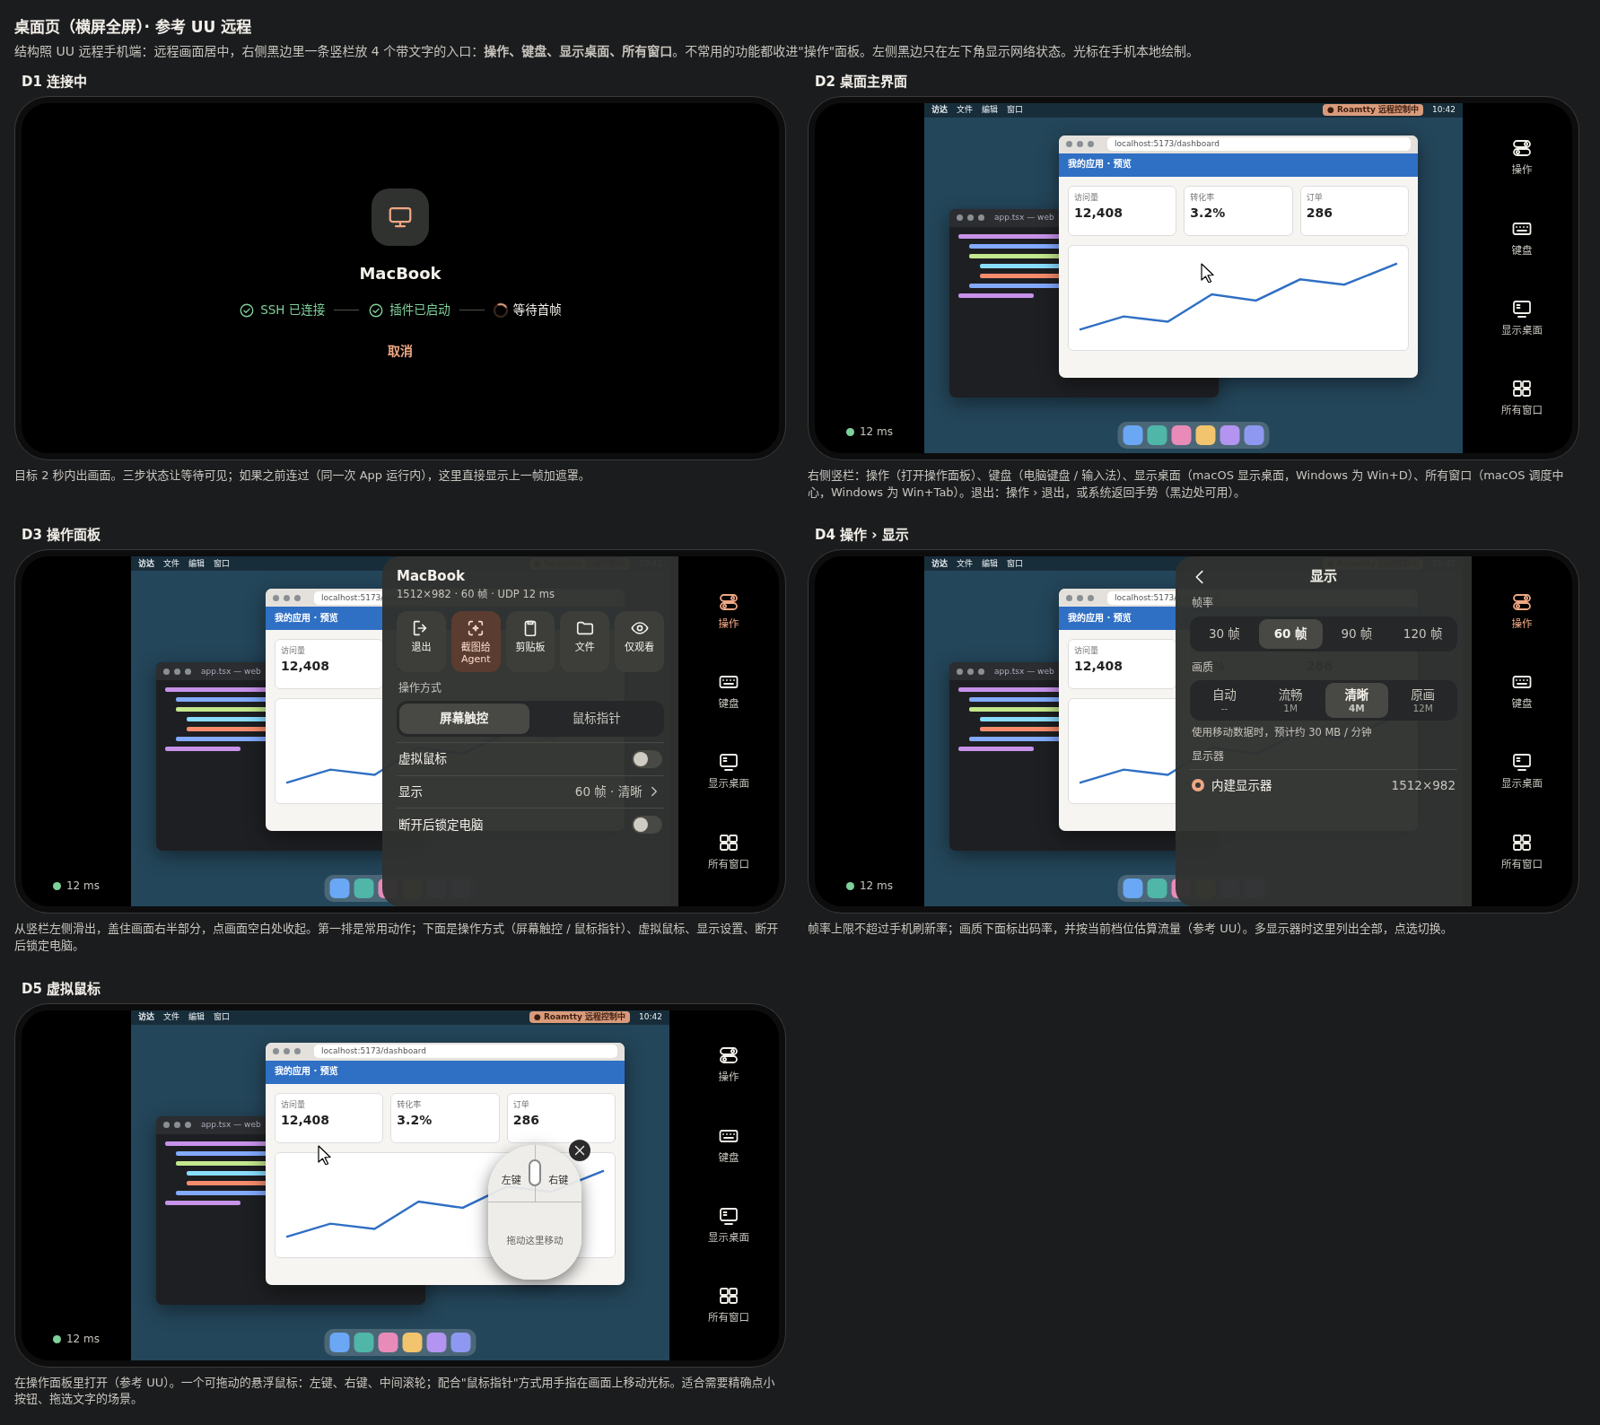
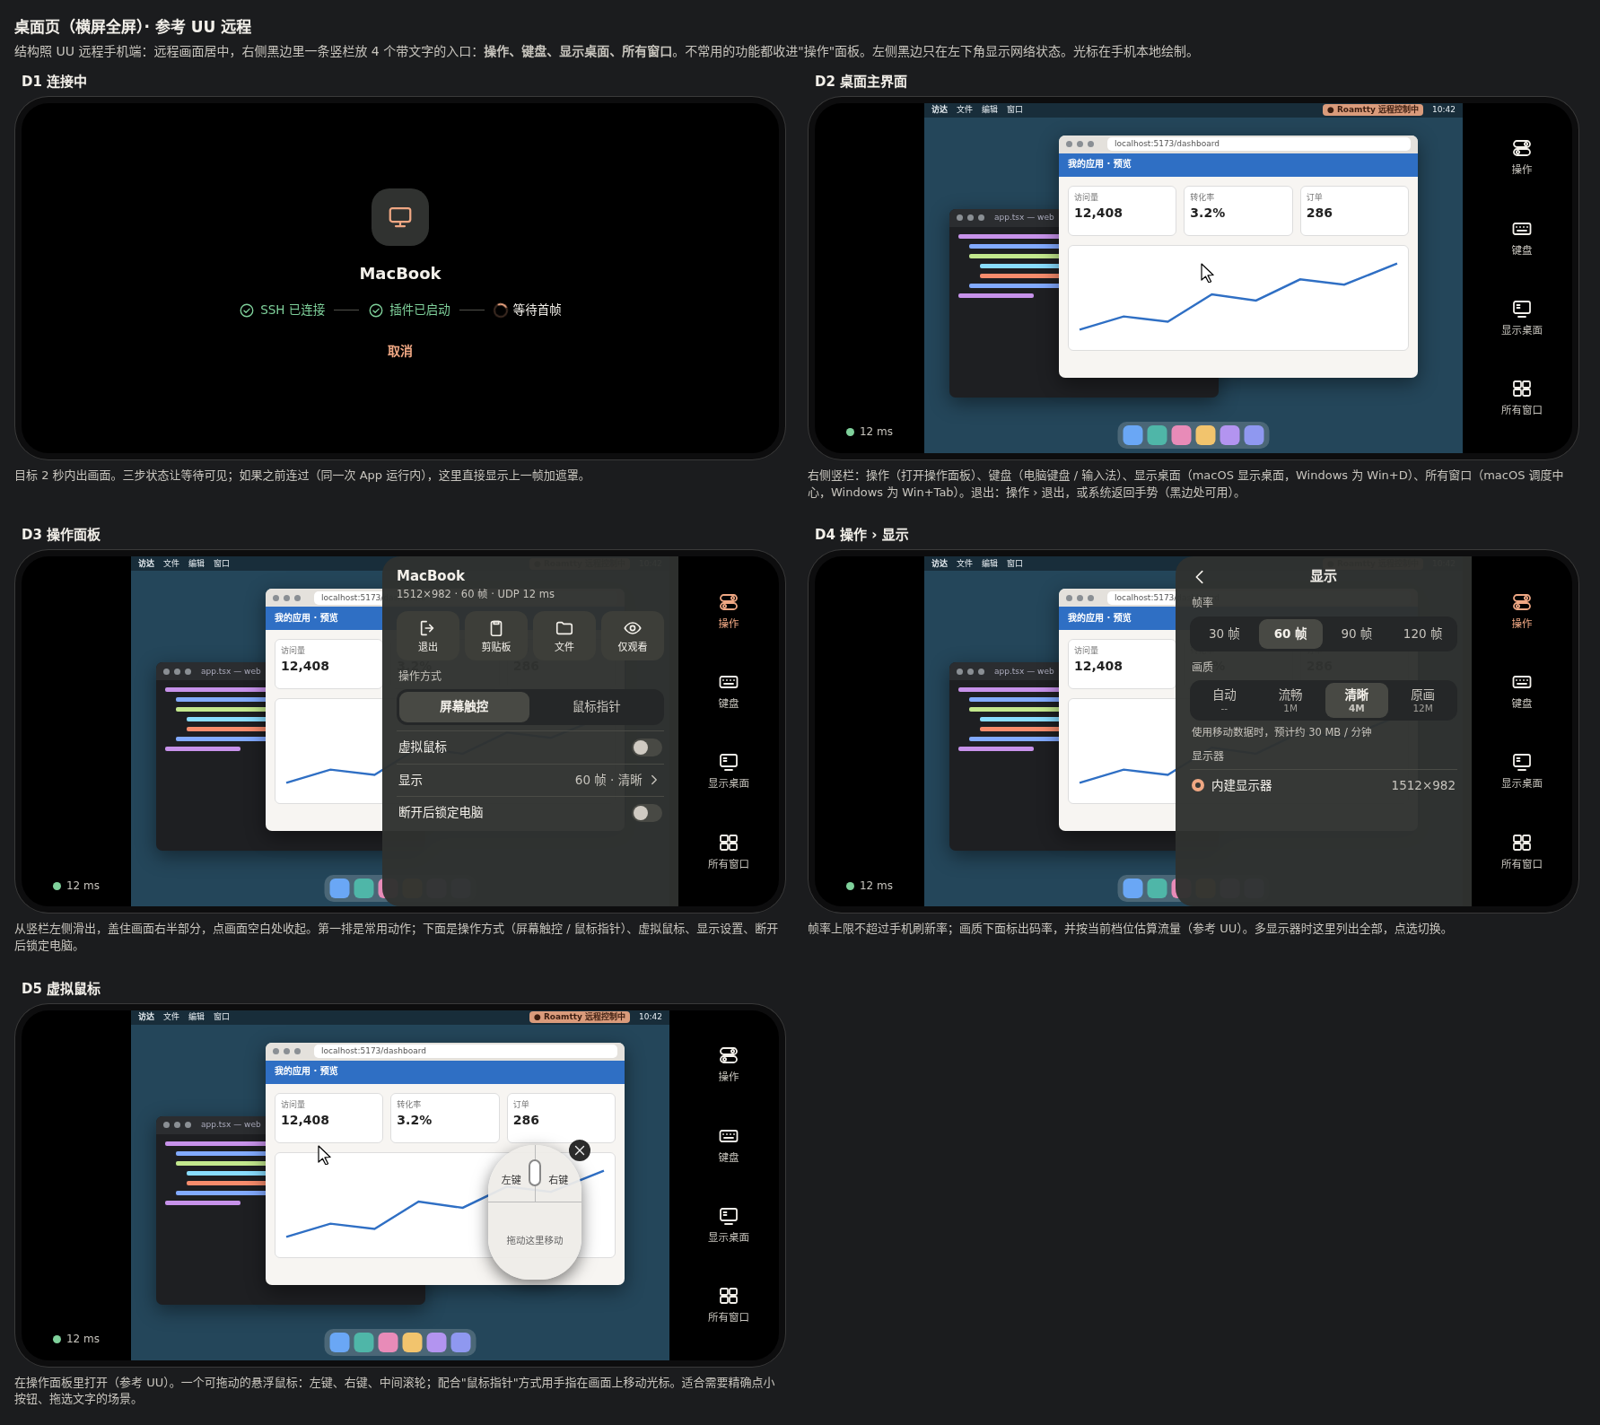
docs(design): drop screenshot-to-agent from the desktop page
The operations panel keeps exit, clipboard, files and view-only; the
desktop page stays plain remote control.

Changed region(s): [[0.25, 0.4323, 0.4062, 0.5867], [0.3438, 0.494, 0.4062, 0.5867]]

diff --git a/docs/design/remote-desktop/index.html b/docs/design/remote-desktop/index.html
@@ -174,7 +174,7 @@ figcaption span, figcaption ul { margin-top: 8px; }
 .d-ph { display: flex; align-items: center; margin-bottom: 10px; }
 .d-ph b { font-size: 15px; }
 .d-ph small { display: block; color: var(--dim); font-size: 11.5px; }
-.d-tiles { display: grid; grid-template-columns: repeat(5, minmax(0, 1fr)); gap: 6px; }
+.d-tiles { display: grid; grid-template-columns: repeat(4, minmax(0, 1fr)); gap: 6px; }
 .d-tiles span { background: var(--card-hi); border-radius: 12px; padding: 8px 2px; display: flex; flex-direction: column; align-items: center; gap: 4px; font-size: 11px; text-align: center; line-height: 1.2; }
 .d-tiles span.pri { background: var(--pri-cont); color: var(--on-pri-cont); }
 .d-sec { color: var(--dim); font-size: 12px; margin: 10px 2px 5px; }
@@ -496,7 +496,6 @@ figcaption span, figcaption ul { margin-top: 8px; }
         <div class="d-ph"><div><b>MacBook</b><small>1512×982 · 60 帧 · UDP 12 ms</small></div></div>
         <div class="d-tiles">
           <span><svg class="ico"><use href="#d-exit"/></svg>退出</span>
-          <span class="pri"><svg class="ico"><use href="#shot"/></svg>截图给 Agent</span>
           <span><svg class="ico"><use href="#clip"/></svg>剪贴板</span>
           <span><svg class="ico"><use href="#folder"/></svg>文件</span>
           <span><svg class="ico"><use href="#d-eye"/></svg>仅观看</span>
@@ -652,7 +651,6 @@ figcaption span, figcaption ul { margin-top: 8px; }
       <div class="d-panel portrait-sheet">
         <div class="d-tiles">
           <span><svg class="ico"><use href="#d-exit"/></svg>退出</span>
-          <span class="pri"><svg class="ico"><use href="#shot"/></svg>截图给 Agent</span>
           <span><svg class="ico"><use href="#clip"/></svg>剪贴板</span>
           <span><svg class="ico"><use href="#folder"/></svg>文件</span>
           <span><svg class="ico"><use href="#d-eye"/></svg>仅观看</span>
